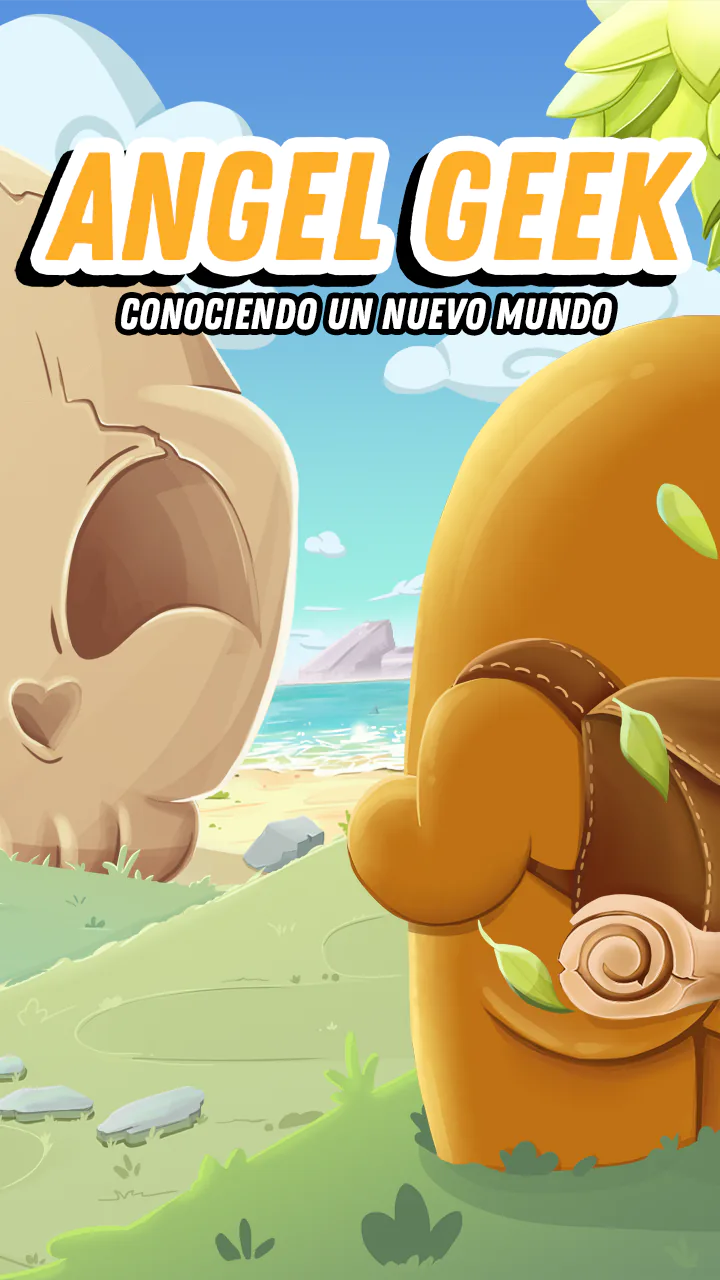
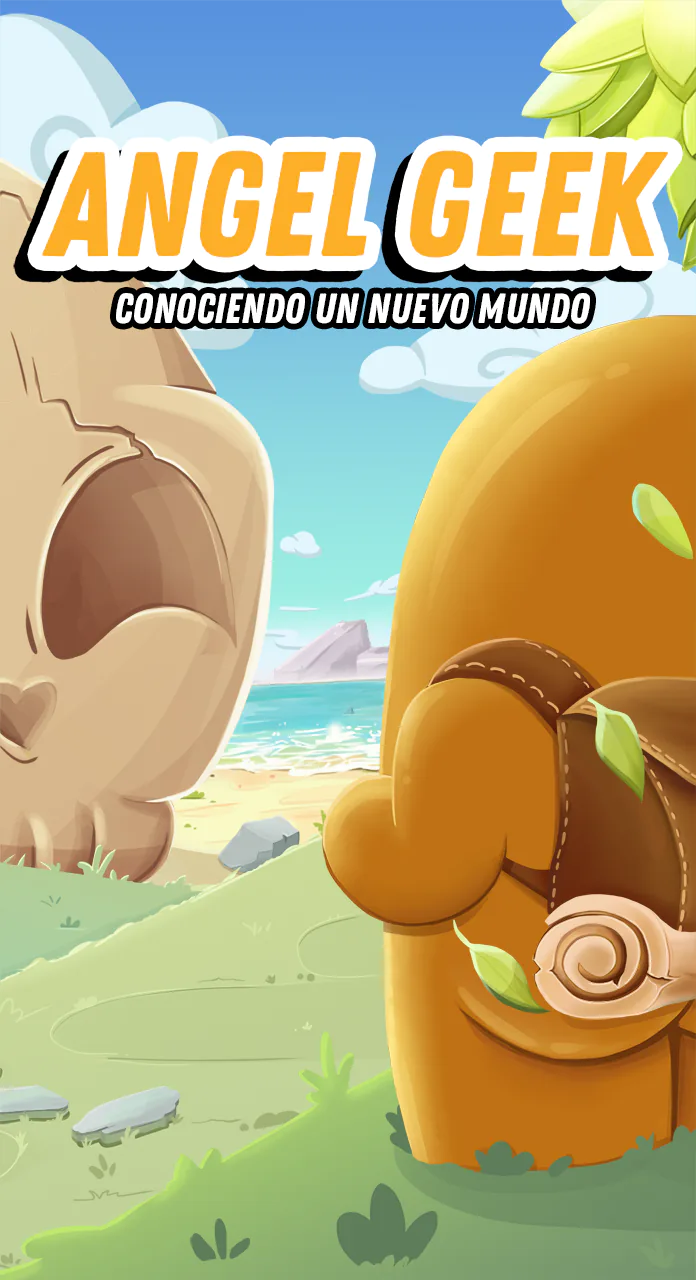
videojuego

diff --git a/index.html b/index.html
@@ -348,15 +348,14 @@
 #startScreen {
     margin: 0;
     position: fixed; /* Lo fija en la pantalla, ignorando el scroll */
-    top: 0;
-    left: 0;
+  
     width: 100vw; /* Ocupa el 100% del ancho del viewport */
     height: 100vh; /* Ocupa el 100% del alto del viewport */
     display: flex; /* Para organizar los elementos internos (título, subtítulo, botón) */
     flex-direction: column; /* Apila los elementos verticalmente */
     justify-content: flex-end; /* Centra los elementos verticalmente */
     align-items: center; /* Centra los elementos horizontalmente */
-    align-content: flex-end;
+    align-content: center;
     background-image: url('./img/Mapa Home.webp'); /* <-- ¡¡¡CAMBIA ESTA RUTA POR LA DE TU IMAGEN!!! */
     background-size: cover; /* Cubre toda el área del contenedor */
     background-position: top; /* Centra la imagen de fondo */
@@ -396,7 +395,7 @@
         /* Tamaño fijo para el botón, ajusta estos valores según el tamaño de tus imágenes de botón */
         width: 339px;   /* Ancho deseado del botón */
         height: 186px;   /* Alto deseado del botón */
-       margin: 0;
+        margin: 0;
         /* Oculta el texto original del botón, ya que usaremos una imagen */
         
 
@@ -436,31 +435,39 @@
 
     #instructionsPanel {
       
-        padding: 20px 30px;
+        padding:20px;
         border-radius: 10px; /* Bordes redondeados */
         text-align: center;
         max-width: 80%; /* Ancho máximo para que no sea demasiado largo en pantallas grandes */
         font-family: 'Press Start 2P', Arial, sans-serif;
         font-size: clamp(0.7em, 1.8vw, 1.2em); /* Tamaño de fuente responsivo */
         line-height: .1; /* Espaciado entre líneas para mejor lectura */
-        margin-bottom: 0;
+       
         user-select: none;
     }
 
     #instructionsPanel p {
-        margin-bottom: 3px; /* Espacio entre cada línea de instrucción */
+        margin-bottom: 1px; /* Espacio entre cada línea de instrucción */
         color: #E0E0E0; /* Color de texto claro */
     }
 
     #instructionsPanel p:last-child {
         margin-bottom: 0; /* Sin margen inferior en la última línea */
-    }
+     }
 
     /* Estilo para resaltar las teclas */
     .key-highlight {
         color: #FFD700; /* Color dorado para las teclas */
         font-weight: bold;
         text-shadow: 1px 1px 2px rgba(0, 0, 0, 0.4);
+     }
+     #instructionGame {
+            
+        max-width: 70%; /* Ancho máximo para que no sea demasiado largo en pantallas grandes */
+        font-family: 'Press Start 2P', Arial, sans-serif;
+        font-size: clamp(0.7em, 1.8vw, 1.2em); /* Tamaño de fuente responsivo */
+        margin: 0;
+        user-select: none;
     }
 
 
@@ -469,9 +476,18 @@
 
      #startScreen{ 
      background-image: url('./img/Home Image Mobile.webp');
-     
+      padding-bottom: 10vh; /* Revisa si es 5vh u otro valor */
+      width: 100vw; /* Ocupa el 100% del ancho del viewport */
+      height: 100vh; /* Ocupa el 100% del alto del viewport */
+      background-size: 100% auto;
+      background-position: center;
      }
 
+  #instructionsPanel {
+
+  display: none;
+ 
+  }
 
   .dialog-base-style {
     width: 96vw; /* Ocupa 96% del ancho del viewport */
@@ -604,8 +620,11 @@
     <div id="startScreen">
      <button id="startButton"></button>
 <!-- NUEVO: Panel de Instrucciones -->
+
+     <div id="instructionGame">
+     <p><strong>Recolecta las tarjetas y conoce las historias de las adorables criaturas del nuevo mundo</strong></p>
+     </div>
     <div id="instructionsPanel">
-        <p><strong>Recolecta las tarjetas y conoce las historias de las adorables criaturas del nuevo mundo</strong></p>
         <p><strong>Movimiento:</strong> Teclas <span class="key-highlight">W A S D</span> / <span class="key-highlight">Flechas</span></p>
         <p><strong>Inventario:</strong> Presiona <span class="key-highlight">I</span></p>
         <p><strong>Diálogo:</strong> Presiona <span class="key-highlight">Enter</span> / <span class="key-highlight">Clic</span></p>
